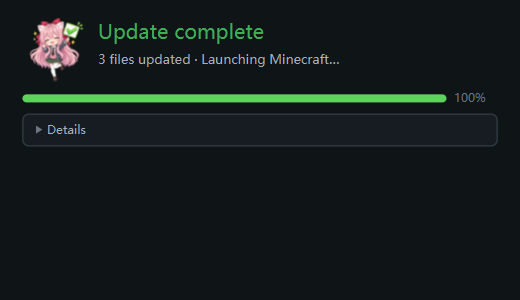
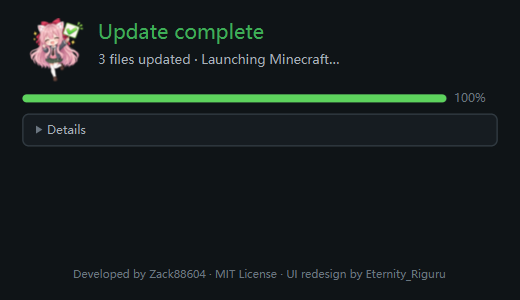
MODIFY: Added copyright information at the bottom of the JavaFX UI

Changed region(s): [[0.1231, 0.9, 0.8615, 0.93]]

diff --git a/agent/javafx/ui.css b/agent/javafx/ui.css
@@ -318,6 +318,14 @@
     -fx-padding: 0;
 }
 
+/* Persistent bottom attribution line — small, muted, centred. It sits below
+   the Details pane (and the debug footer when present) and never changes with
+   the phase. */
+.footer-copyright {
+    -fx-font-size: 11px;
+    -fx-text-fill: #6B7681;
+}
+
 /* Destructive action inside the Quit-update Alert. */
 .danger-button {
     -fx-background-color: #E05252;

diff --git a/agent/javafx/JavaFxUpdateView.java b/agent/javafx/JavaFxUpdateView.java
@@ -106,6 +106,11 @@ class JavaFxUpdateView implements UpdateView {
     private static final double HEADER_FADE_MS = 130;       // spec 100–150ms
     private static final double ENTRANCE_SCALE_FROM = 0.94; // spec 0.94 → 1.0
 
+    // Persistent bottom attribution line (styled via .footer-copyright in
+    // ui.css). Pure presentation — it never affects the update flow.
+    private static final String FOOTER_COPYRIGHT =
+            "Developed by Zack88604 · MIT License · UI redesign by Eternity_Riguru";
+
     // Status-illustration resources (JAR-relative), bundled into the core JAR
     // from agent/images/ and preloaded into the statusImages cache at startup.
     private static final String IMG_PREPARING = "/images/preparing.png";
@@ -141,6 +146,9 @@ class JavaFxUpdateView implements UpdateView {
 
     // Debug close button
     private final Button btnClose = new Button("Close");
+
+    // Persistent bottom copyright line (always the last row of the root).
+    private final Label lblFooter = new Label();
 
     // Reserved status-illustration slot: a fixed 64×64 StackPane holding two
     // stacked ImageViews so a phase switch is a real cross-fade (the new art
@@ -931,6 +939,21 @@ class JavaFxUpdateView implements UpdateView {
             bottom.setAlignment(Pos.CENTER_RIGHT);
             root.getChildren().addAll(footerLine, bottom);
         }
+
+        // Persistent bottom copyright line — centred and muted. Added after the
+        // debug footer so it is always the last row; the content-driven window
+        // sizing (applyWindowHeight) already accounts for its extra height.
+        // The label grows (VBox.setVgrow ALWAYS) to absorb the leftover height in
+        // the short collapsed states, so its text is pinned to the bottom edge of
+        // the window instead of floating above dead space; its pref height is
+        // unchanged, so it never inflates the content-driven window size.
+        lblFooter.getStyleClass().add("footer-copyright");
+        lblFooter.setMaxWidth(Double.MAX_VALUE);
+        lblFooter.setMaxHeight(Double.MAX_VALUE);
+        lblFooter.setAlignment(Pos.BOTTOM_CENTER);
+        lblFooter.setText(FOOTER_COPYRIGHT);
+        VBox.setVgrow(lblFooter, Priority.ALWAYS);
+        root.getChildren().add(lblFooter);
 
         // Apply the shared visual system (ui.css) — normal and debug alike.
         // Short by default; the window grows when Details expands (debug mode
